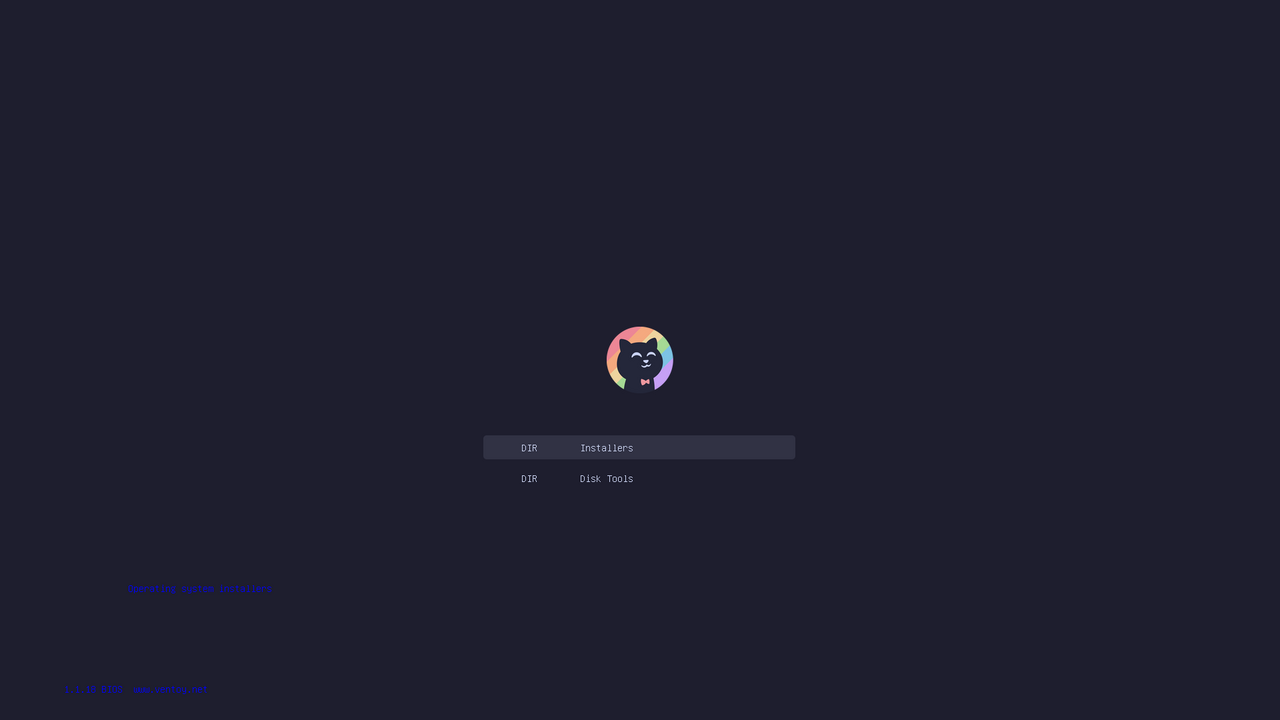
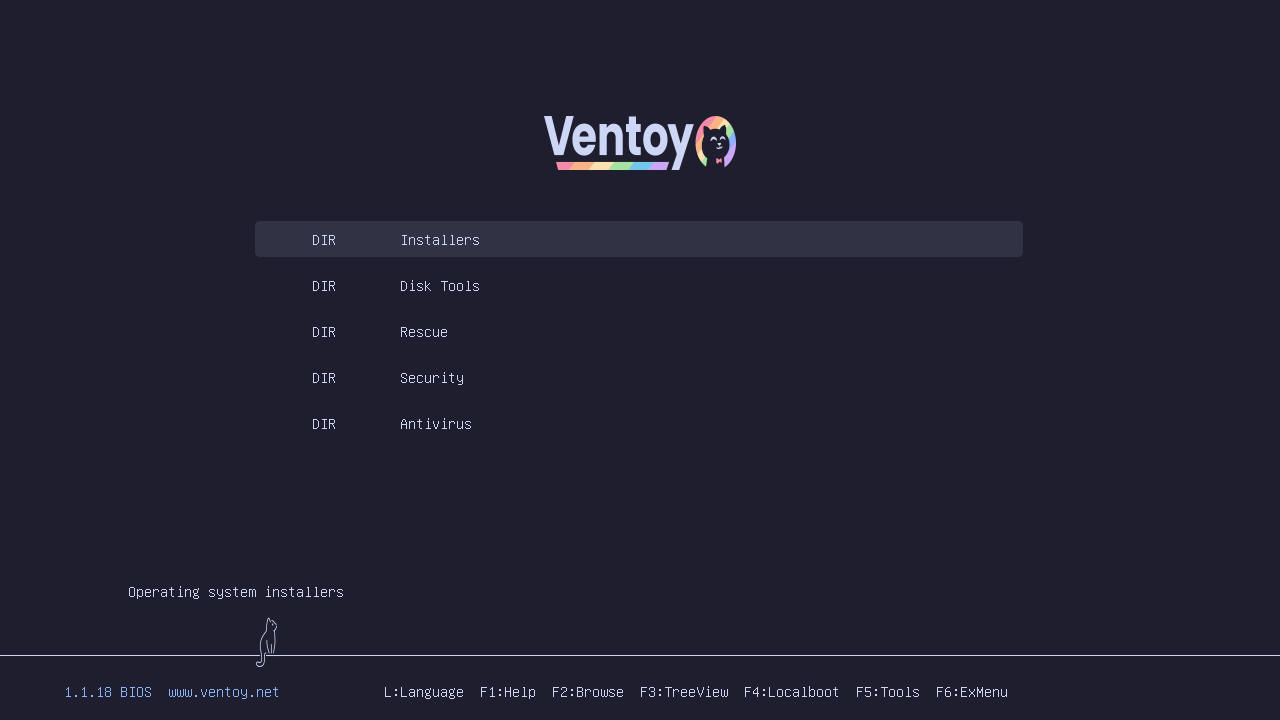
docs: refresh screenshots at 1280x720
New screenshots of each theme at the new resolution, plus the Installers folder in Catppuccin.

diff --git a/README.md b/README.md
@@ -6,6 +6,8 @@ offline antivirus, all on one stick with a themed boot menu.
 
 ![The stick booting with the Catppuccin Mocha theme](docs/screenshots/catppuccin-mocha.png)
 
+![Inside the Installers folder](docs/screenshots/catppuccin-mocha-installers.png)
+
 Everything lives in this repository (pinned Ventoy release, themes, ISO
 manifest, scripts) except the ISOs themselves, which `setup.sh` downloads and
 verifies.
